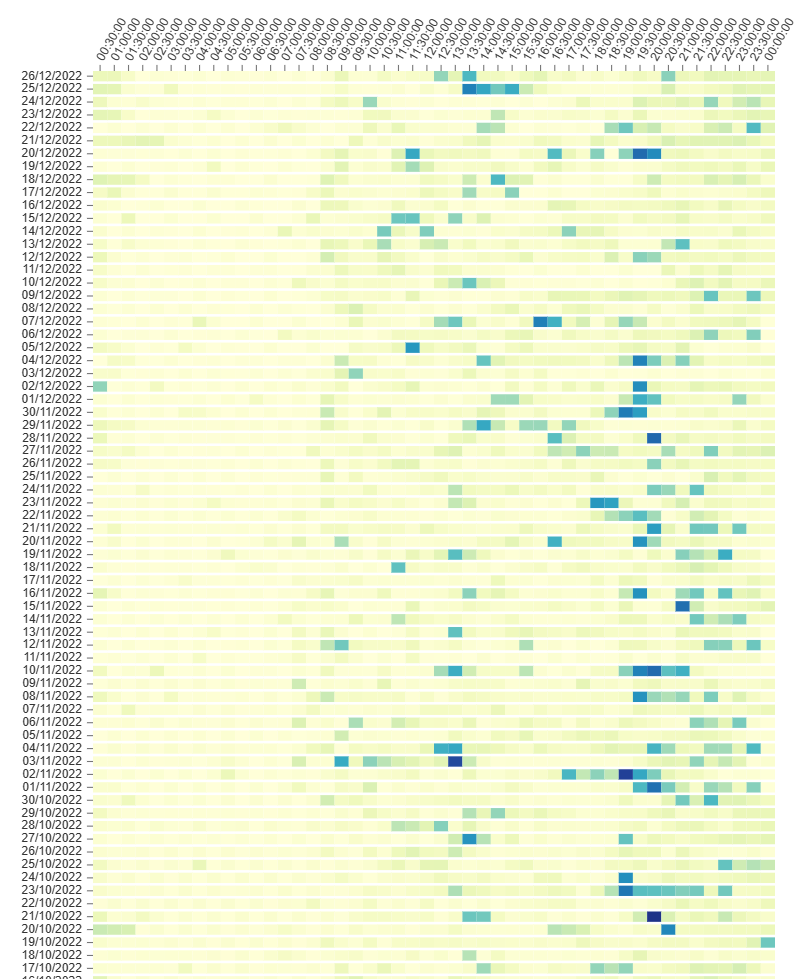
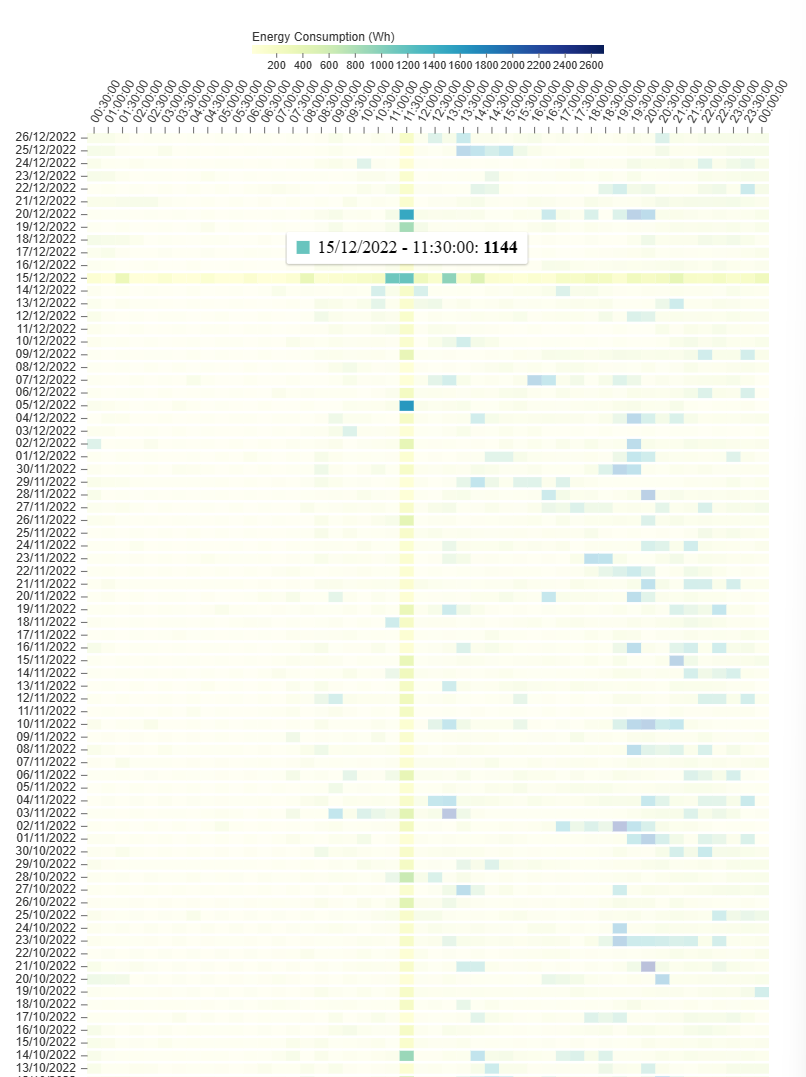
Adding legends

diff --git a/components/electricity/Electricity.jsx b/components/electricity/Electricity.jsx
@@ -13,7 +13,7 @@ export default function Electricity(props) {
       width={800}
       height={totalHeight}
       yInnerPadding={0.2}
-      margin={{ top: 60, right: 90, bottom: 30, left: 90 }}
+      margin={{ top: 120, right: 90, bottom: 30, left: 90 }}
       enableLabels={false}
       axisTop={{ tickSize: 5, tickRotation: -60 }}
       colors={{
@@ -23,9 +23,26 @@ export default function Electricity(props) {
         maxValue: props.meta.maxEnergie,
       }}
       animate={false}
-      activeOpacity={0.9}
-      inactiveOpacity={0.5}
-      hoverTarget="row"
+      activeOpacity={1}
+      inactiveOpacity={0.3}
+      hoverTarget="rowColumn"
+      legends={[
+        {
+          anchor: "top",
+          translateX: 0,
+          translateY: -80,
+          length: 320,
+          thickness: 8,
+          direction: "row",
+          tickPosition: "after",
+          tickSize: 3,
+          tickSpacing: 4,
+          tickOverlap: false,
+          title: "Energy Consumption (Wh)",
+          titleAlign: "start",
+          titleOffset: 4,
+        },
+      ]}
     />
   );
 }
